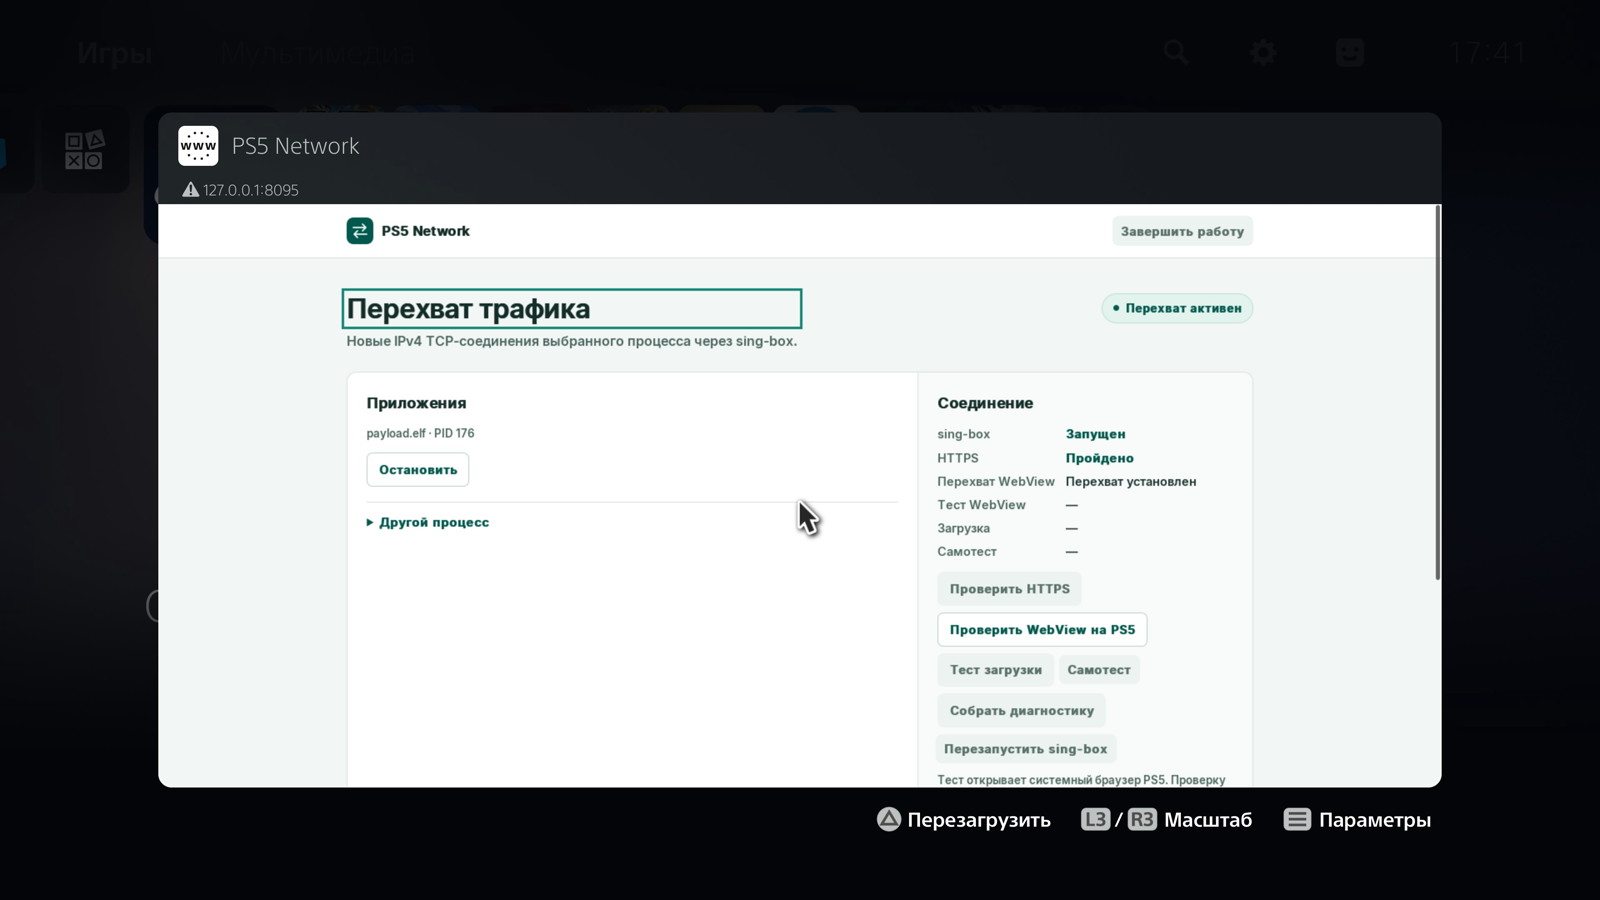
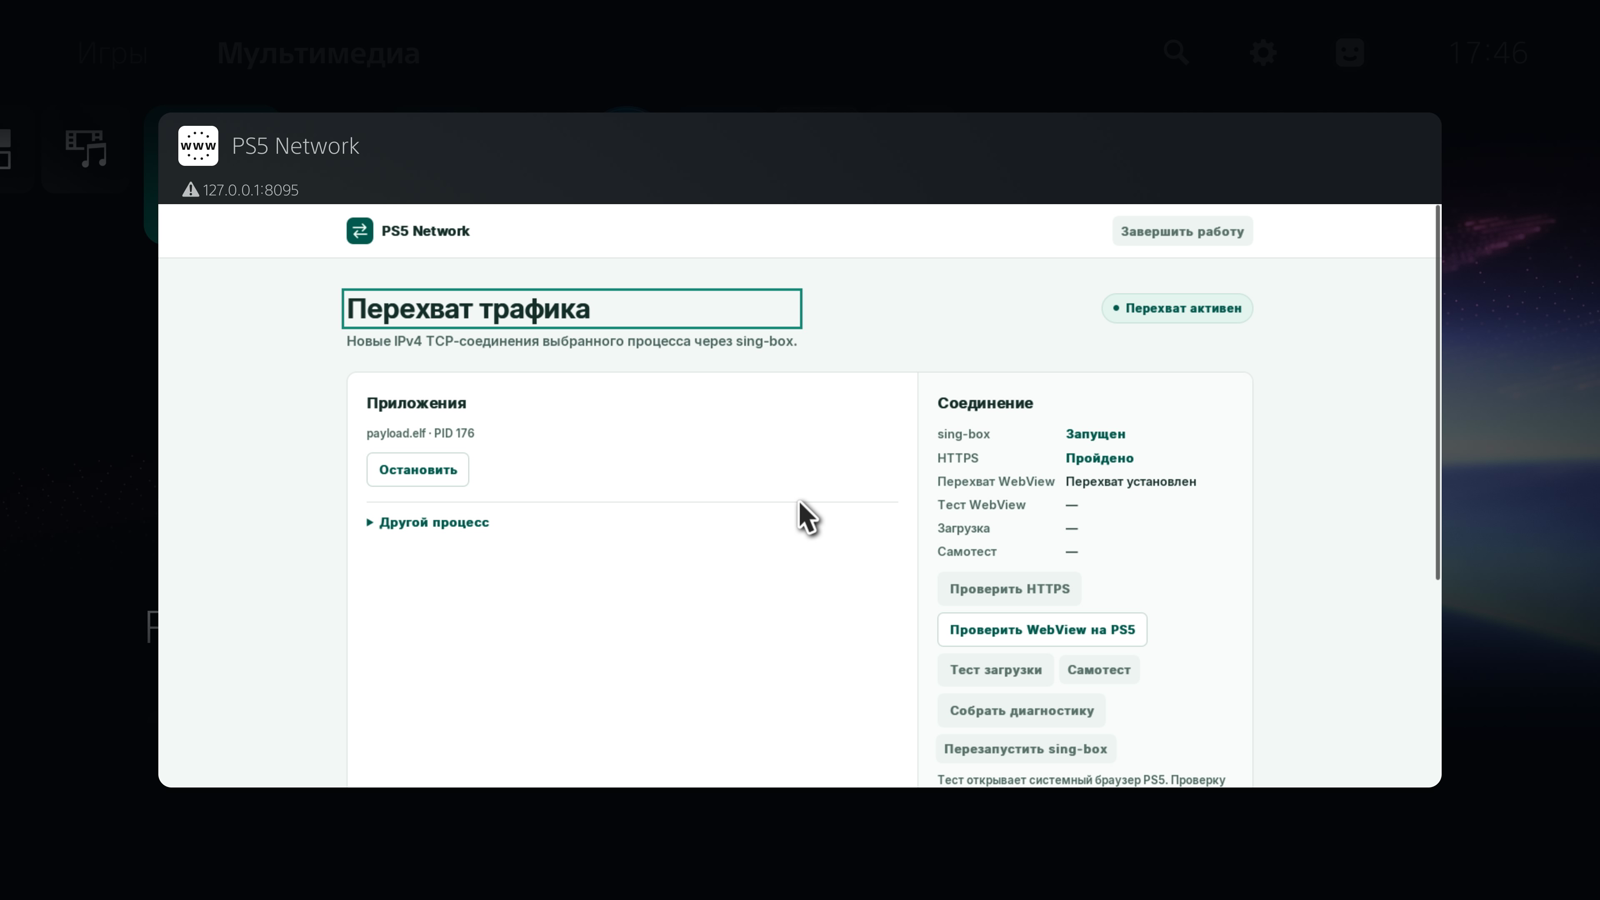
Document verified PIN-free launch from the PS5 Media tile

diff --git a/docs/CHANGELOG.md b/docs/CHANGELOG.md
@@ -33,7 +33,7 @@ Orbit VPN active: ... local API port 34177
 ### Что проверено
 
 - **PS5 12.20**, сервис Orbit 1.9.0, установленное TV-приложение 1.13.0.
-- Вход через loopback API на консоли без PIN и открытие интерфейса в штатном браузере PS5 без формы входа.
+- Вход через loopback API на консоли без PIN и открытие плитки **Мультимедиа → PS5 Network** с геймпада: штатный браузер сразу показывает управление без формы входа.
 - Отказ выдавать локальный сеанс клиенту из LAN: HTTP 401 без авторизации.
 - Подключение живого Orbit из кэша, затем из встроенного ELF приложения. Во втором случае воспроизведён отказ кэшированного кандидата и успешный выбор встроенного.
 - Одновременная установка перехватов Orbit и WebView; штатное снятие перехватов проверено до перезапуска сервиса.

diff --git a/docs/screenshots/README.md b/docs/screenshots/README.md
@@ -4,6 +4,7 @@
 
 | Файл | Что показано | Откуда получен | Размер |
 | --- | --- | --- | --- |
+| [ps5-network-v22-on-console.png](ps5-network-v22-on-console.png) | Панель 0.22 сразу после открытия плитки в «Мультимедиа» без PIN. Orbit и WebView подключены, HTTPS пройден. | Экран PS5 12.20 | 1600 × 900 |
 | [ps5-network-on-console.png](ps5-network-on-console.png) | Панель PS5 Network после открытия плитки в «Мультимедиа» и входа. sing-box запущен, HTTPS и загрузка пройдены. | Экран PS5 12.20 | 1600 × 900 |
 | [ps5-network-media.png](ps5-network-media.png) | Плитка PS5 Network в «Мультимедиа». | Экран PS5 12.20 | 1600 × 900 |
 | [payload-manager.png](payload-manager.png) | Установленные приложения в Payload Manager 0.6.3. | Браузер на ПК | 1080 × 210 |
